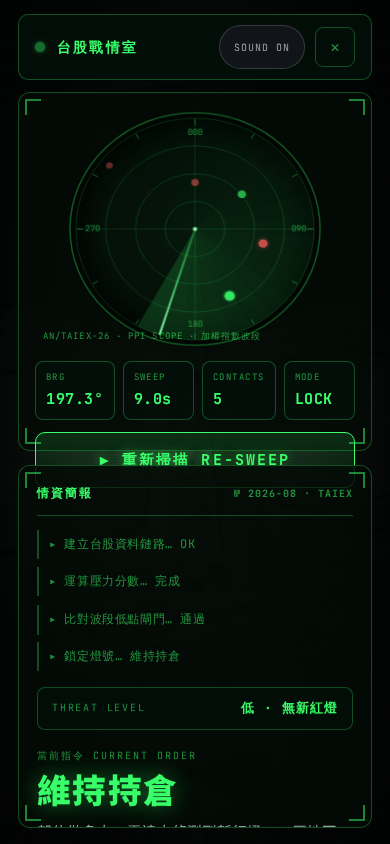
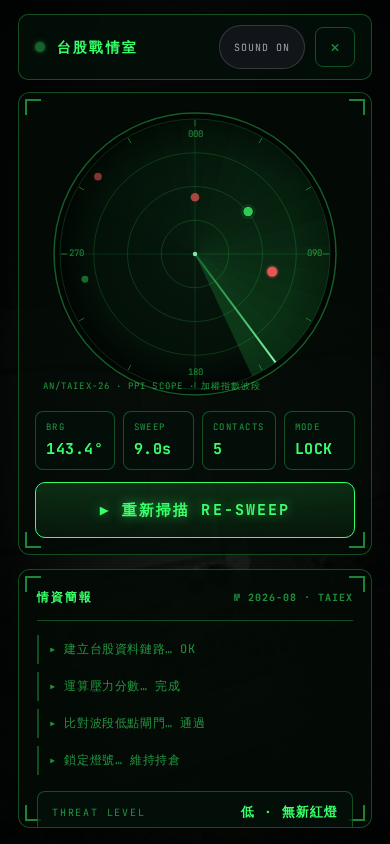
Fix mobile radar distortion + sweep jump: square-locked scope, ResizeObserver, phase-accumulator sweep + regression tests
- warroom.js: resize() locks canvas to exact square (style + backing store x DPR),
  ResizeObserver re-squares on any layout shift (verdict reveal, iOS URL-bar collapse)
- warroom.js: sweep uses phase accumulator (angle += dt/period*360) — speed changes
  alter velocity, never position; no beam jump at idle(9s) <-> combat(1.6s) switch
- landing.css: scope wrap flex-centers, canvas no longer 100%-stretched; mobile grid
  uses stable rows so verdict reveal can't stretch the scope
- test-e2e.cjs: +7 regression checks (square at open/after verdict on desktop+mobile,
  size stability, sweep continuity sampled via bearing readout, 0 backward jumps)
- Suite: 89/89 green (42 unit + 16 API + 31 E2E)

diff --git a/public/static/warroom.js b/public/static/warroom.js
@@ -45,27 +45,43 @@
   var running = false;
   var scanning = false;
   var rafId = 0;
-  var t0 = 0;
   var lastAngle = 0;
-  var lastPingAngle = -999;
   var timers = [];
   var clockTimer = 0;
 
-  /* ── sizing (DPR-aware, square scope) ── */
+  /* ── sizing: JS locks the scope to an EXACT square, centered in the wrap.
+     Fixes iOS bug where flex-stretched CSS box + fixed backing store made the
+     scope start tall and snap to normal size when the verdict brief appeared. ── */
   var cw = 0, ch = 0, cx = 0, cy = 0, radius = 0;
   function resize() {
-    var rect = canvas.getBoundingClientRect();
+    var wrap = canvas.parentElement;
+    if (!wrap) return;
+    var rect = wrap.getBoundingClientRect();
     var dpr = Math.min(window.devicePixelRatio || 1, 2);
-    cw = Math.max(120, Math.floor(rect.width));
-    ch = Math.max(120, Math.floor(rect.height));
-    canvas.width = cw * dpr;
-    canvas.height = ch * dpr;
+    var side = Math.max(200, Math.floor(Math.min(rect.width, rect.height)));
+    if (rect.width < 4 || rect.height < 4) return; // hidden — nothing to measure
+    if (cw === side && ch === side) return;        // already square at this size
+    cw = side;
+    ch = side;
+    canvas.style.width = side + "px";
+    canvas.style.height = side + "px";
+    canvas.width = Math.floor(side * dpr);
+    canvas.height = Math.floor(side * dpr);
     ctx.setTransform(dpr, 0, 0, dpr, 0, 0);
     cx = cw / 2;
     cy = ch / 2;
-    radius = Math.min(cw, ch) / 2 - 10;
+    radius = side / 2 - 10;
     if (!running) drawFrame(0);
   }
+
+  /* re-square on ANY layout shift: verdict reveal, iOS URL-bar collapse, rotation */
+  var ro = null;
+  try {
+    if (typeof ResizeObserver !== "undefined" && canvas.parentElement) {
+      ro = new ResizeObserver(function () { resize(); });
+      ro.observe(canvas.parentElement);
+    }
+  } catch (e) {}
 
   /* ── draw one frame. sweepDeg: beam bearing in degrees ── */
   function drawFrame(sweepDeg) {
@@ -162,12 +178,20 @@
     if (contactsEl) contactsEl.textContent = String(lit);
   }
 
-  /* ── animation loop ── */
+  /* ── animation loop: phase-accumulator sweep.
+     Angle advances by (dt × current speed) each frame — so switching between
+     idle (9s) and combat (1.6s) sweep changes VELOCITY, never position.
+     Fixes the visible beam jump when a scan starts/ends. ── */
+  var phase = 0;      // accumulated sweep angle in degrees, 0..360
+  var lastTs = 0;     // last rAF timestamp
   function frame(now) {
     if (!running) return;
-    if (!t0) t0 = now;
+    if (!lastTs) lastTs = now;
+    var dt = Math.min(now - lastTs, 100); // clamp tab-switch gaps
+    lastTs = now;
     var period = scanning ? SCAN_SWEEP_MS : SWEEP_MS;
-    var angle = reduced ? 0 : R.sweepAngle(now - t0, period);
+    phase = (phase + (dt / period) * 360) % 360;
+    var angle = reduced ? 0 : phase;
     drawFrame(angle);
 
     /* sonar ping each time the beam crosses 12 o'clock */
@@ -181,7 +205,7 @@
   function startLoop() {
     if (running || reduced) { if (reduced) drawFrame(0); return; }
     running = true;
-    t0 = 0;
+    lastTs = 0;
     rafId = requestAnimationFrame(frame);
   }
   function stopLoop() {

diff --git a/public/static/landing.css b/public/static/landing.css
@@ -528,7 +528,9 @@ body.desk-locked { overflow: hidden; }
   gap: 14px;
 }
 @media (max-width: 900px) {
-  .wr-main { grid-template-columns: 1fr; overflow-y: auto; }
+  /* fixed console row keeps the radar square stable while brief content grows */
+  .wr-main { grid-template-columns: 1fr; grid-template-rows: auto minmax(0, 1fr); overflow-y: auto; }
+  .wr-console { min-height: 0; }
 }
 
 /* ── console (radar) ── */
@@ -551,8 +553,18 @@ body.desk-locked { overflow: hidden; }
     linear-gradient(var(--mil), var(--mil)) right bottom / 2px 16px;
   background-repeat: no-repeat; opacity: 0.5;
 }
-.wr-scope-wrap { flex: 1; min-height: 240px; position: relative; }
-#wr-radar { width: 100%; height: 100%; display: block; }
+.wr-scope-wrap {
+  flex: 1; min-height: 240px; position: relative;
+  display: flex; align-items: center; justify-content: center;
+}
+#wr-radar { display: block; } /* JS locks the scope to an exact square */
+@media (max-width: 900px) {
+  /* square scope on mobile: viewport width minus chrome — no flex stretching */
+  .wr-scope-wrap {
+    flex: none; min-height: 0;
+    height: min(calc(100vw - 100px), 420px);
+  }
+}
 .wr-scope-tag {
   position: absolute; left: 8px; bottom: 6px; font-size: 9px; letter-spacing: 0.12em;
   color: var(--mil-dim); pointer-events: none;
